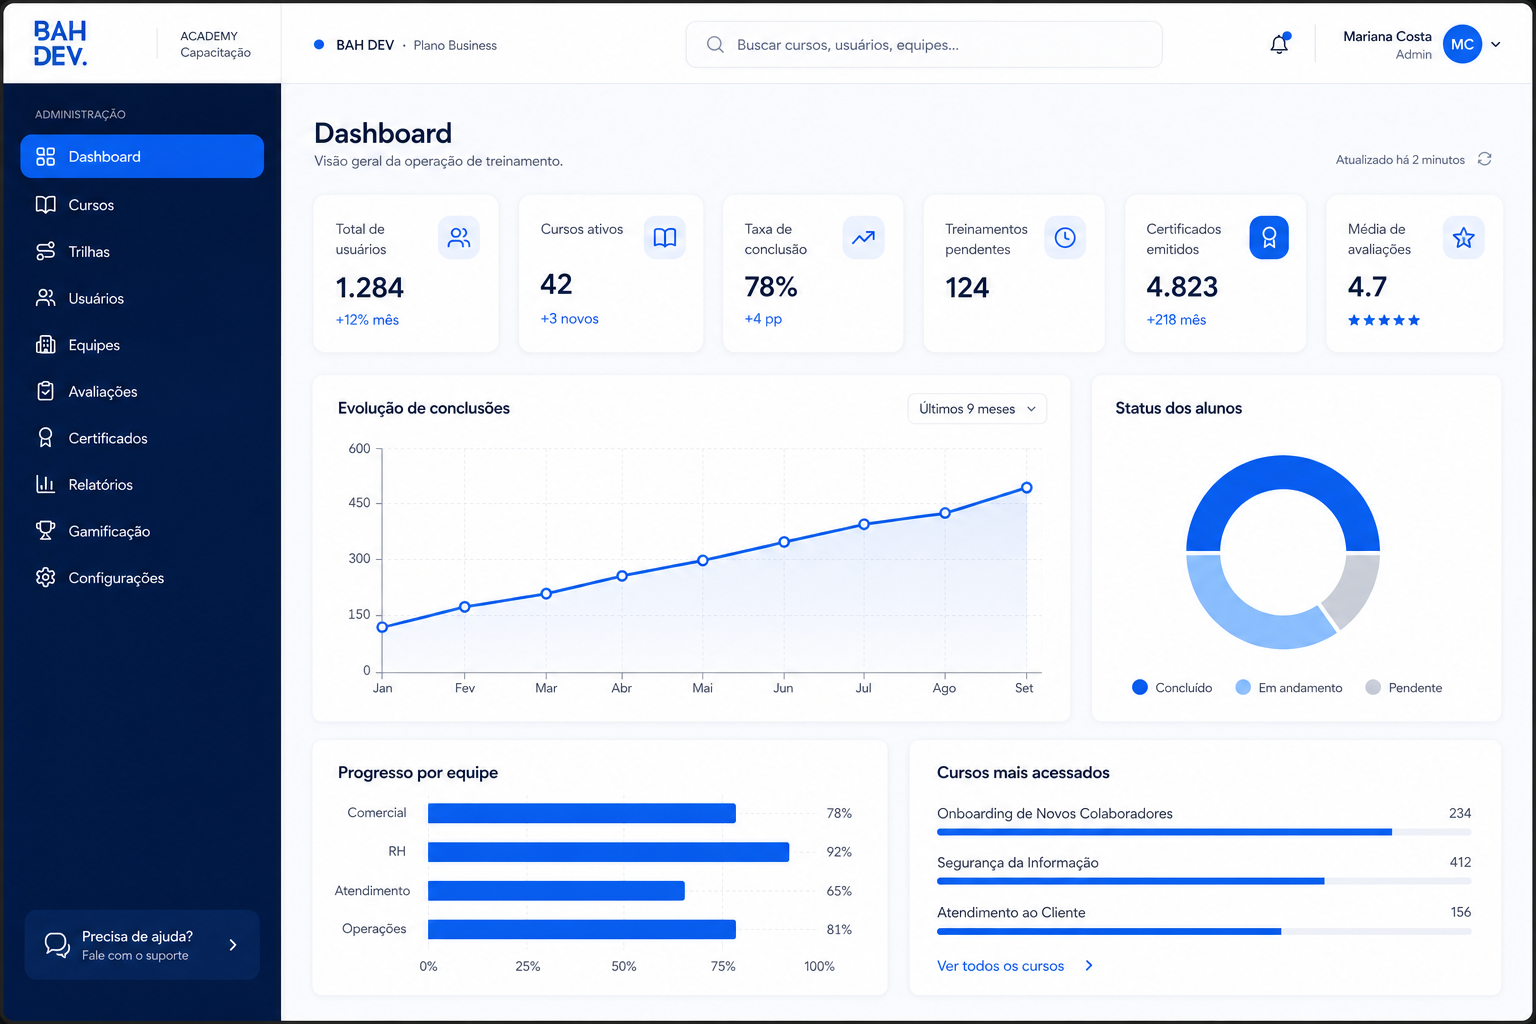
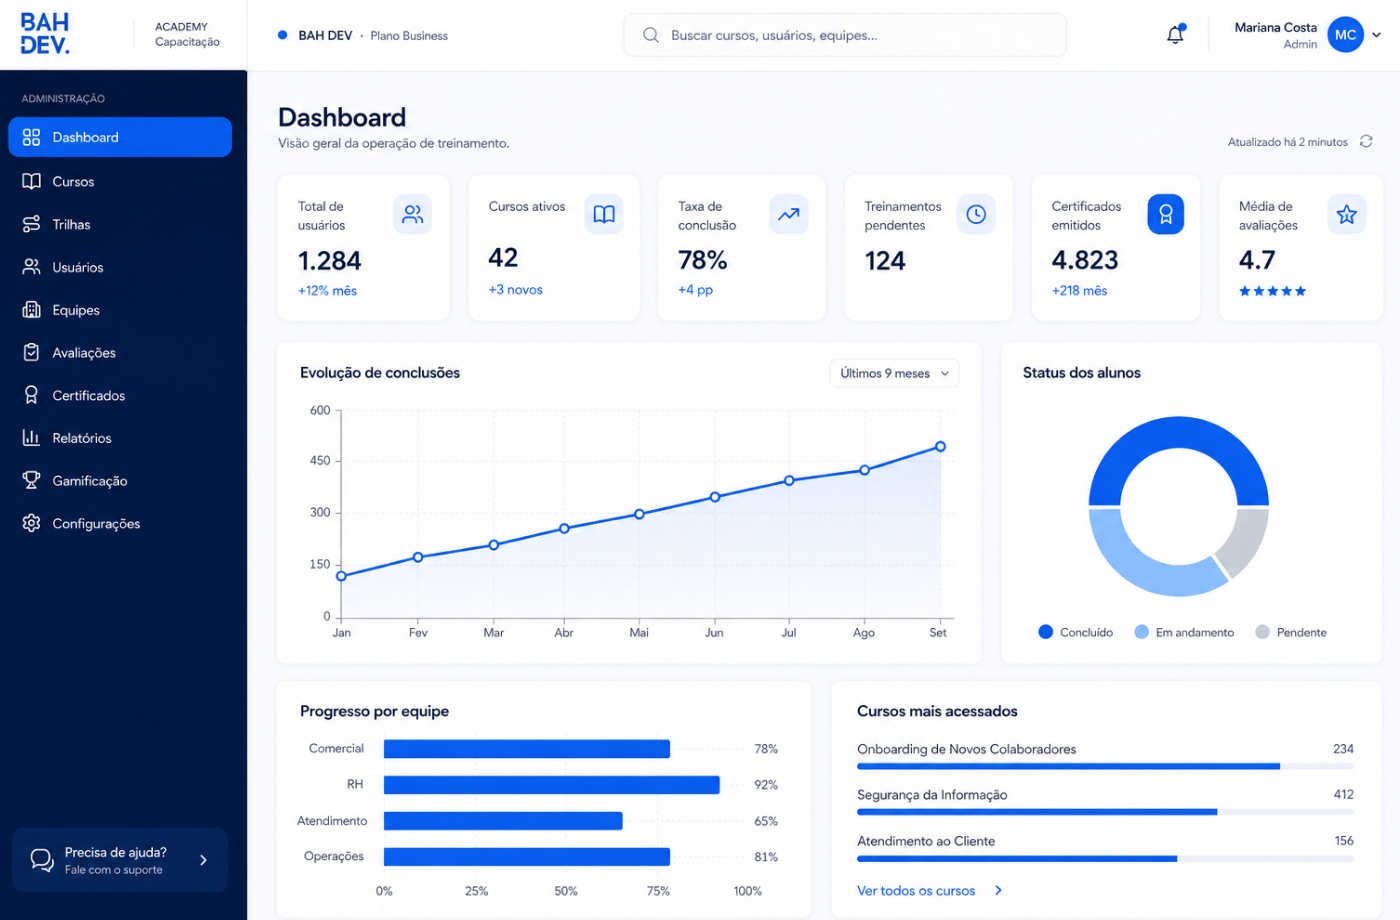
adicionacoisas

diff --git a/src/components/sections/Footer.tsx b/src/components/sections/Footer.tsx
@@ -1,5 +1,5 @@
 import { Button } from "@/components/ui/button";
-import { ArrowRight, MessageCircle, Mail, Phone } from "lucide-react";
+import { ArrowRight, MessageCircle, Mail, Phone, MapPin } from "lucide-react";
 import fecomercioSenacLogo from "../../assets/programa-fecomercio-senac.png";
 import foundersClubPrimeLogo from "../../assets/programa-founders-club-prime.svg";
 import iabLogo from "../../assets/programa-iab.png";
@@ -7,26 +7,39 @@ import membroCaldeiraLogo from "../../assets/programa-membro-caldeira.png";
 
 const WHATSAPP_URL = `https://wa.me/5551985901584?text=${encodeURIComponent("Olá, quero entender como a Bahdev pode funcionar na minha operação.")}`;
 
-const memberPrograms = [
+const programGroups = [
   {
-    name: "Fecomercio RS e Senac",
-    logo: fecomercioSenacLogo,
-    className: "w-72",
+    title: "Programas que participamos",
+    programs: [
+      {
+        name: "Fecomercio RS e Senac",
+        logo: fecomercioSenacLogo,
+        className: "w-72",
+        imageClassName: "scale-125",
+      },
+      {
+        name: "IAB",
+        logo: iabLogo,
+        className: "w-36",
+        imageClassName: "scale-90",
+      },
+    ],
   },
   {
-    name: "IAB",
-    logo: iabLogo,
-    className: "w-36",
-  },
-  {
-    name: "Founders Club Prime",
-    logo: foundersClubPrimeLogo,
-    className: "w-72",
-  },
-  {
-    name: "Membro Caldeira",
-    logo: membroCaldeiraLogo,
-    className: "w-40",
+    title: "Membros",
+    programs: [
+      {
+        name: "Founders Club Prime",
+        logo: foundersClubPrimeLogo,
+        className: "w-72",
+      },
+      {
+        name: "Membro Caldeira",
+        logo: membroCaldeiraLogo,
+        className: "w-40",
+        href: "https://institutocaldeira.org.br",
+      },
+    ],
   },
 ];
 
@@ -57,6 +70,10 @@ const Footer = () => (
           <div className="space-y-1.5 text-xs opacity-60">
             <a href="mailto:atendimento@bahdev.com.br" className="flex items-center gap-1.5 hover:opacity-100"><Mail className="h-3 w-3" />atendimento@bahdev.com.br</a>
             <a href="tel:+5551985901584" className="flex items-center gap-1.5 hover:opacity-100"><Phone className="h-3 w-3" />(51) 98590-1584</a>
+            <a href="https://maps.google.com/?q=Tv.+Sao+Jose,+455,+Navegantes,+Porto+Alegre,+RS" target="_blank" rel="noopener noreferrer" className="flex items-start gap-1.5 hover:opacity-100">
+              <MapPin className="h-3 w-3 shrink-0 mt-0.5" />
+              <span>Tv. São José, 455, Navegantes, Porto Alegre - RS, 90240-200</span>
+            </a>
           </div>
         </div>
         <div>
@@ -84,25 +101,36 @@ const Footer = () => (
           </ul>
         </div>
       </div>
-      <div className="mt-8 pt-6 border-t border-muted/10">
-        <p className="text-xs font-semibold uppercase tracking-[0.16em] opacity-50 mb-4">
-          Programas que participamos
-        </p>
-        <div className="flex flex-wrap items-center gap-3">
-          {memberPrograms.map((program) => (
-            <div
-              key={program.name}
-              className={`${program.className} h-20 rounded-md bg-white px-4 py-3 shadow-sm`}
-            >
-              <img
-                src={program.logo}
-                alt={program.name}
-                className="h-full w-full object-contain object-center"
-                loading="lazy"
-              />
+      <div className="mt-8 pt-6 border-t border-muted/10 grid gap-6 lg:grid-cols-2">
+        {programGroups.map((group) => (
+          <div key={group.title}>
+            <p className="text-xs font-semibold uppercase tracking-[0.16em] opacity-50 mb-4">
+              {group.title}
+            </p>
+            <div className="flex flex-wrap items-center gap-3">
+              {group.programs.map((program) => {
+                const card = (
+                  <div className={`${program.className} h-20 rounded-md bg-white px-4 py-3 shadow-sm`}>
+                    <img
+                      src={program.logo}
+                      alt={program.name}
+                      className={`h-full w-full object-contain object-center ${program.imageClassName ?? ""}`}
+                      loading="lazy"
+                    />
+                  </div>
+                );
+
+                return program.href ? (
+                  <a key={program.name} href={program.href} target="_blank" rel="noopener noreferrer" aria-label={`Abrir site ${program.name}`}>
+                    {card}
+                  </a>
+                ) : (
+                  <div key={program.name}>{card}</div>
+                );
+              })}
             </div>
-          ))}
-        </div>
+          </div>
+        ))}
       </div>
       <div className="mt-8 pt-6 border-t border-muted/10 text-center">
         <p className="text-xs opacity-40">© {new Date().getFullYear()} Bahdev. Todos os direitos reservados.</p>

diff --git a/src/components/sections/Products.tsx b/src/components/sections/Products.tsx
@@ -5,7 +5,6 @@ import { ArrowRight } from "lucide-react";
 import { Button } from "@/components/ui/button";
 import omnichannelImage from "@/assets/omnichannel-platform.png";
 import portalImage from "@/assets/farmacias-portal.png";
-import dashboardImage from "@/assets/dashboard-powerbi.png";
 import treinamentoImage from "@/assets/dashboard-bahdev-treinamento.png";
 
 type Product = {
@@ -38,15 +37,6 @@ const products: Product[] = [
     accent: "from-violet-500/20 via-blue-500/10 to-transparent",
   },
   {
-    title: "Dashboards & BI",
-    desc: "Indicadores por unidade, região e setor — com visão consolidada para tomada de decisão.",
-    badge: "Disponível",
-    to: "/dashboards",
-    image: dashboardImage,
-    imageAlt: "Dashboard de BI com gráficos e indicadores de desempenho",
-    accent: "from-emerald-400/20 via-blue-500/10 to-transparent",
-  },
-  {
     title: "Treinamento Capacitação",
     desc: "Painel completo para cursos, trilhas, usuários, certificados, gamificação e relatórios de aprendizagem.",
     badge: "Novo módulo",
@@ -77,7 +67,7 @@ const Products = () => (
       initial="hidden"
       whileInView="visible"
       viewport={{ once: true }}
-      className="grid sm:grid-cols-2 lg:grid-cols-4 gap-5 max-w-6xl mx-auto"
+      className="grid sm:grid-cols-2 lg:grid-cols-3 gap-5 max-w-5xl mx-auto"
     >
       {products.map((p) => {
         const content = (

diff --git a/src/components/sections/RegionMap.tsx b/src/components/sections/RegionMap.tsx
@@ -1,6 +1,7 @@
 import { useEffect, useState } from "react";
 import bahdevRegionMap from "@/assets/bahdev_region_map.png";
 import bahdevGramadoStand from "@/assets/bahdev-gramado-stand.jpg";
+import bannerCaldeira from "@/assets/banner-caldeira.png";
 import {
   Carousel,
   CarouselContent,
@@ -12,6 +13,13 @@ import {
 import { SectionWrapper, AnimatedBlock } from "./SectionWrapper";
 
 const newsItems = [
+  {
+    title: "A Bahdev agora também faz parte do Instituto Caldeira",
+    description:
+      "Estar no Caldeira coloca a Bahdev ainda mais perto de novas ideias, conexões e oportunidades. É um passo importante para continuar evoluindo, trocando experiências e construindo soluções.",
+    image: bannerCaldeira,
+    alt: "Banner com as marcas do Instituto Caldeira e Bahdev",
+  },
   {
     title: "Onde a Bahdev já chegou",
     description:

diff --git a/src/App.tsx b/src/App.tsx
@@ -4,6 +4,7 @@ import { Toaster as Sonner } from "@/components/ui/sonner";
 import { Toaster } from "@/components/ui/toaster";
 import { TooltipProvider } from "@/components/ui/tooltip";
 import ScrollToTop from "./components/ScrollToTop";
+import SpaRedirectHandler from "./components/SpaRedirectHandler";
 import Index from "./pages/Index.tsx";
 import Omnichannel from "./pages/Omnichannel.tsx";
 import Portal from "./pages/Portal.tsx";
@@ -20,6 +21,7 @@ const App = () => (
       <Toaster />
       <Sonner />
       <BrowserRouter>
+        <SpaRedirectHandler />
         <ScrollToTop />
         <Routes>
           <Route path="/" element={<Index />} />

diff --git a/src/components/SpaRedirectHandler.tsx b/src/components/SpaRedirectHandler.tsx
@@ -1,0 +1,21 @@
+import { useEffect } from "react";
+import { useNavigate } from "react-router-dom";
+
+const REDIRECT_KEY = "bahdev:spa-redirect";
+
+const SpaRedirectHandler = () => {
+  const navigate = useNavigate();
+
+  useEffect(() => {
+    const target = sessionStorage.getItem(REDIRECT_KEY);
+
+    if (!target) return;
+
+    sessionStorage.removeItem(REDIRECT_KEY);
+    navigate(target, { replace: true });
+  }, [navigate]);
+
+  return null;
+};
+
+export default SpaRedirectHandler;

diff --git a/public/treinamento/index.html b/public/treinamento/index.html
@@ -1,0 +1,13 @@
+<!doctype html>
+<html lang="pt-BR">
+  <head>
+    <meta charset="UTF-8" />
+    <meta name="viewport" content="width=device-width, initial-scale=1.0" />
+    <title>Treinamento Capacitação | Bahdev</title>
+    <script>
+      sessionStorage.setItem("bahdev:spa-redirect", "/treinamento" + window.location.search + window.location.hash);
+      window.location.replace("/");
+    </script>
+  </head>
+  <body>Redirecionando...</body>
+</html>

diff --git a/public/campanhas/index.html b/public/campanhas/index.html
@@ -1,0 +1,13 @@
+<!doctype html>
+<html lang="pt-BR">
+  <head>
+    <meta charset="UTF-8" />
+    <meta name="viewport" content="width=device-width, initial-scale=1.0" />
+    <title>Campanhas & Comunicação | Bahdev</title>
+    <script>
+      sessionStorage.setItem("bahdev:spa-redirect", "/campanhas" + window.location.search + window.location.hash);
+      window.location.replace("/");
+    </script>
+  </head>
+  <body>Redirecionando...</body>
+</html>

diff --git a/public/omnichannel/index.html b/public/omnichannel/index.html
@@ -1,0 +1,13 @@
+<!doctype html>
+<html lang="pt-BR">
+  <head>
+    <meta charset="UTF-8" />
+    <meta name="viewport" content="width=device-width, initial-scale=1.0" />
+    <title>Plataforma Omnichannel | Bahdev</title>
+    <script>
+      sessionStorage.setItem("bahdev:spa-redirect", "/omnichannel" + window.location.search + window.location.hash);
+      window.location.replace("/");
+    </script>
+  </head>
+  <body>Redirecionando...</body>
+</html>

diff --git a/public/dashboards/index.html b/public/dashboards/index.html
@@ -1,0 +1,13 @@
+<!doctype html>
+<html lang="pt-BR">
+  <head>
+    <meta charset="UTF-8" />
+    <meta name="viewport" content="width=device-width, initial-scale=1.0" />
+    <title>Dashboards & BI | Bahdev</title>
+    <script>
+      sessionStorage.setItem("bahdev:spa-redirect", "/dashboards" + window.location.search + window.location.hash);
+      window.location.replace("/");
+    </script>
+  </head>
+  <body>Redirecionando...</body>
+</html>

diff --git a/public/portal/index.html b/public/portal/index.html
@@ -1,0 +1,13 @@
+<!doctype html>
+<html lang="pt-BR">
+  <head>
+    <meta charset="UTF-8" />
+    <meta name="viewport" content="width=device-width, initial-scale=1.0" />
+    <title>Portal do Associado | Bahdev</title>
+    <script>
+      sessionStorage.setItem("bahdev:spa-redirect", "/portal" + window.location.search + window.location.hash);
+      window.location.replace("/");
+    </script>
+  </head>
+  <body>Redirecionando...</body>
+</html>
